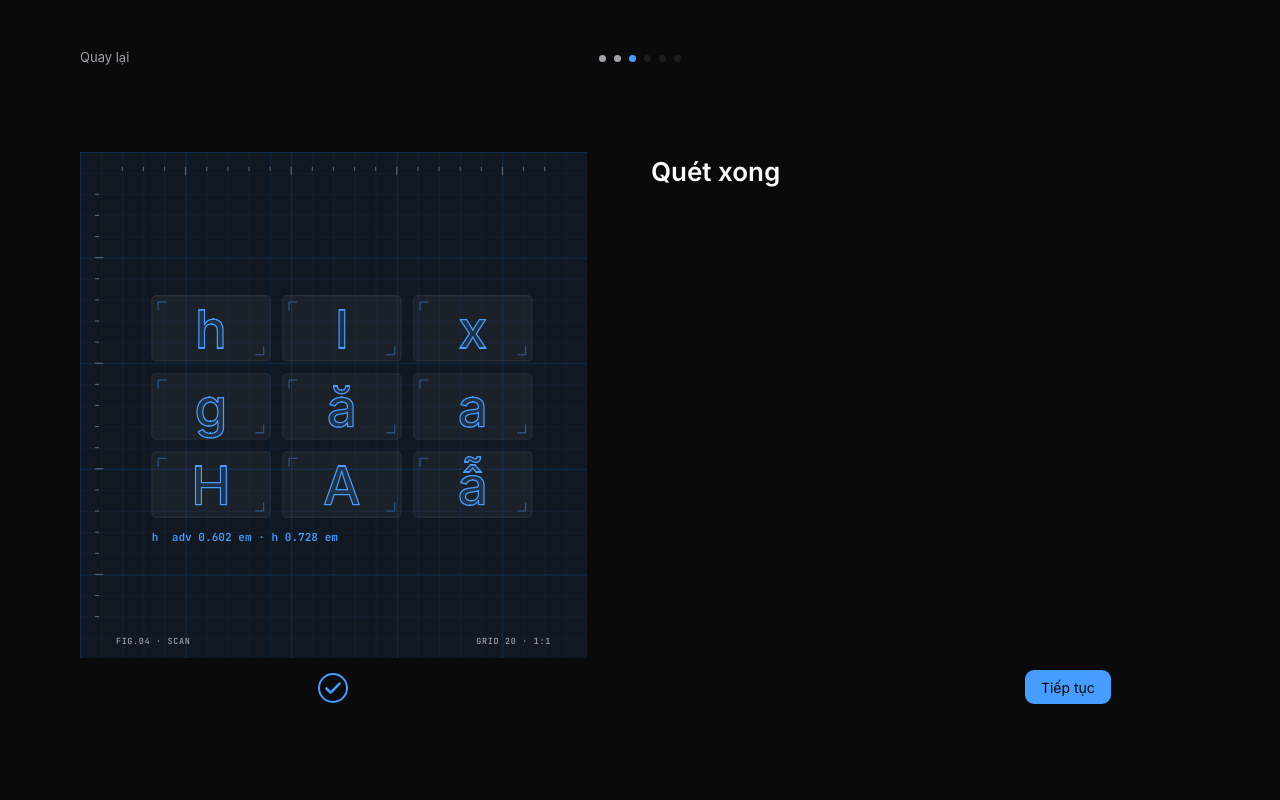
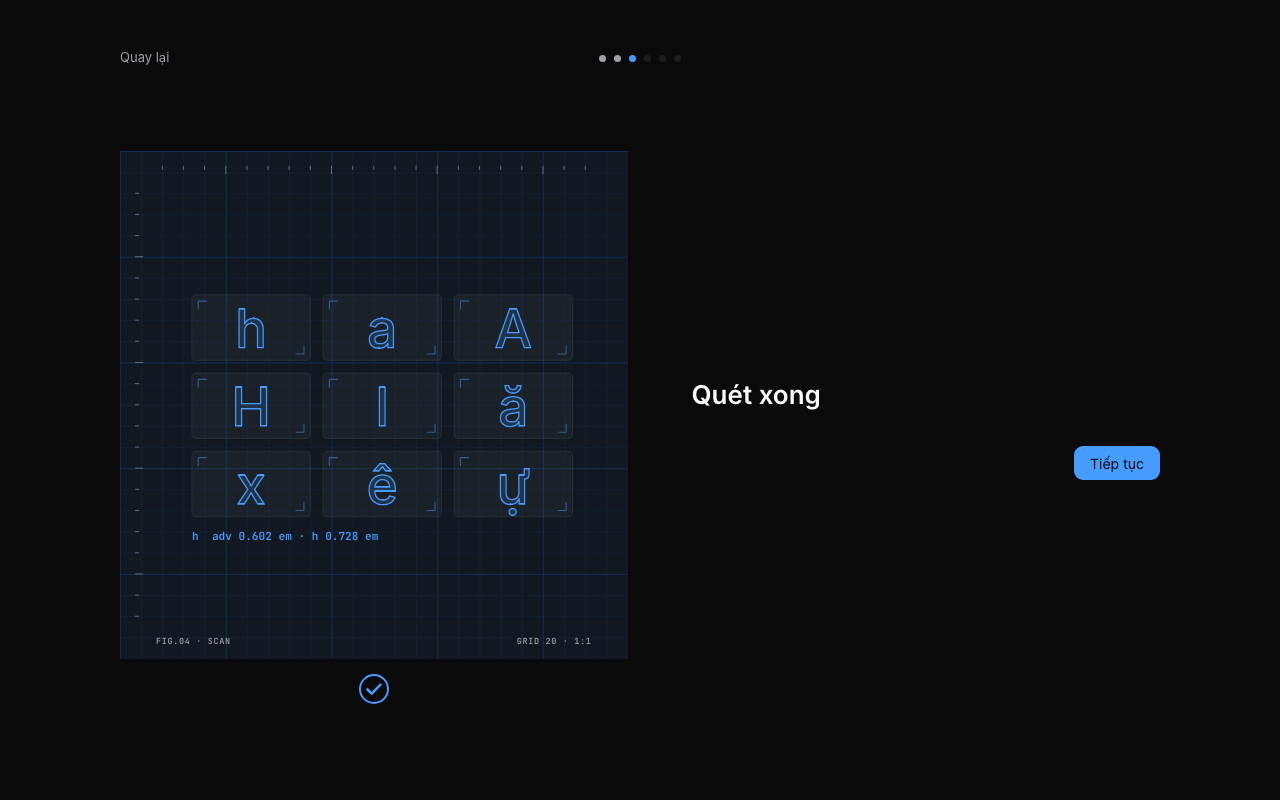
style(onboarding): canh giữa cụm hình+chữ theo chiều ngang, nút ngay sau nội dung và khối chữ giữa dọc, bỏ vạch top đè dấu breve; ảnh chụp lại

diff --git a/UX/components/onboarding/onboarding.css b/UX/components/onboarding/onboarding.css
@@ -1,5 +1,6 @@
 .fa-onb { position: relative; height: 100%; display: flex; flex-direction: column; background: var(--sheet); color: var(--fg); overflow-y: auto; }
-.fa-onb-top { display: grid; grid-template-columns: 1fr auto 1fr; grid-auto-rows: 28px; align-items: center; width: min(1120px, calc(100% - 48px)); margin: 0 auto; padding: 44px 0 0; }
+.fa-onb { --onb-w: min(1040px, calc(100% - 48px)); }
+.fa-onb-top { display: grid; grid-template-columns: 1fr auto 1fr; grid-auto-rows: 28px; align-items: center; width: var(--onb-w); margin: 0 auto; padding: 44px 0 0; }
 .fa-onb-back { justify-self: start; color: var(--muted); font-size: 13px; }
 .fa-onb-back:hover { color: var(--fg); }
 .fa-onb-dots { display: flex; gap: 8px; align-items: center; height: 14px; }
@@ -7,12 +8,11 @@
 .fa-onb-dots i[data-on="true"] { background: var(--muted); }
 .fa-onb-dots i[data-now="true"] { background: var(--accent-ink); }
 @media (prefers-reduced-motion: reduce) { .fa-onb-dots i { transition: none; } }
-.fa-onb-body { flex: 1; width: min(1120px, calc(100% - 48px)); margin: 0 auto; padding: clamp(12px, 3vh, 32px) 0 clamp(24px, 5vh, 56px); display: grid; grid-template-columns: minmax(0, 48fr) minmax(0, 52fr); column-gap: clamp(32px, 5vw, 72px); align-content: center; align-items: stretch; }
+.fa-onb-body { flex: 1; width: var(--onb-w); margin: 0 auto; padding: clamp(12px, 3vh, 32px) 0 clamp(24px, 5vh, 56px); display: grid; grid-template-columns: minmax(0, 52fr) minmax(0, 48fr); column-gap: clamp(32px, 5vw, 72px); align-content: center; align-items: center; }
 .fa-stage { margin: 0; min-width: 0; width: min(100%, 520px, calc(100vh - 230px)); align-self: center; justify-self: start; }
 .fa-stage-slot { min-width: 0; }
-.fa-onb-pane { display: flex; flex-direction: column; gap: 14px; min-width: 0; max-width: 460px; justify-self: start; width: 100%; justify-content: center; }
-.fa-onb-pane > .fa-onb-actions { margin-top: auto; }
-@media (max-width: 880px) { .fa-onb-body { grid-template-columns: minmax(0, 1fr); row-gap: 24px; align-content: start; } .fa-stage { width: min(100%, 360px, calc(100vh - 360px)); min-width: 220px; } .fa-onb-pane { max-width: none; } }
+.fa-onb-pane { display: flex; flex-direction: column; gap: 14px; min-width: 0; justify-self: stretch; }
+@media (max-width: 880px) { .fa-onb-body { grid-template-columns: minmax(0, 1fr); row-gap: 24px; align-content: start; } .fa-stage { width: min(100%, 360px, calc(100vh - 360px)); min-width: 220px; }  }
 .fa-onb-body h1 { margin: 0; font-size: 26px; font-weight: 600; }
 .fa-onb-body p { margin: 0; font-size: 14px; line-height: 1.6; color: var(--muted); }
 .fa-onb-body p[role="alert"] { color: var(--warn); }
@@ -42,7 +42,7 @@
 .fa-onb-suggest { display: flex; gap: 8px; flex-wrap: wrap; }
 .fa-onb-suggest button { height: 30px; padding: 0 12px; border-radius: 8px; background: var(--surface-2); font-size: 13px; }
 .fa-onb-preview { border: 1px solid var(--border); border-radius: var(--radius-md); overflow: hidden; background: var(--sheet); }
-.fa-onb-actions { display: flex; justify-content: flex-end; flex-wrap: wrap; gap: 8px; margin-top: 8px; }
+.fa-onb-actions { display: flex; justify-content: flex-end; flex-wrap: wrap; gap: 8px; margin-top: 18px; }
 .fa-onb-actions button { height: 34px; padding: 0 16px; border-radius: 9px; font-size: 14px; background: var(--surface-2); }
 .fa-onb-actions button.primary { background: var(--accent-ink); color: var(--sheet); }
 .fa-onb-actions button:disabled { opacity: .45; }

diff --git a/UX/components/onboarding/Illustrations.tsx b/UX/components/onboarding/Illustrations.tsx
@@ -21,7 +21,6 @@ function Welcome(): React.JSX.Element {
       <Guide y={cap} name="cap" at={200} />
       <Guide y={xh} name="x-height" at={320} />
       <Guide y={base} name="baseline" at={440} tone="base" />
-      <Guide y={top} name="top" at={560} x1={apex - 40} x2={apex + 40} />
       <Dimension x={150} y1={cap} y2={base} at={1000} />
       <Dimension x={124} y1={xh} y2={base} at={1100} />
       <GlyphArt ch="Ặ" x={x} y={base} size={size} at={700} fillAt={1700} />

diff --git a/docs/design/onboarding-lab/README.md b/docs/design/onboarding-lab/README.md
@@ -17,3 +17,4 @@ Ngôn ngữ hình: bản vẽ kỹ thuật (blueprint) — lưới đo 20 px, đ
 - Trước màn kết: bảng "Phím tắt & tính năng chính" (`UX/components/help`) — lưới 9 thẻ lấy từ danh sách phím thật (`shortcuts.ts`, mỗi mục ghi nơi đăng ký phím); Esc / bấm nền / "Bắt đầu" đều vào thư viện. Mở lại bất kỳ lúc nào bằng phím `?` (trừ khi đang gõ chữ, có hộp thoại/menu hoặc đang trong hướng dẫn).
 - Chụp: `capture.sh` có thêm `-tips` (hash dev `ob=end&tips=1`).
 - Cập nhật sau góp ý chủ app: BỎ khối chú giải dài dưới hình ở mọi bước. Trên hình chỉ còn nhãn ngắn cạnh vạch (tên thuật ngữ + số đo, vd "cap height 0.728 em"); rê chuột/focus vào nhãn mới hiện TermTip. Bố cục cân lại: lưới 48/52, hình vuông ≤ 520 px (≈45% bề ngang) canh giữa theo chiều dọc, lề trái hình = lề trái nút "Quay lại" (cùng cột 1120 px), khối chữ cùng lề cột phải, nút nằm đúng đường chân của hình; cửa sổ hẹp (≤ 880 px) xếp dọc. Ảnh kiểm: 1280×800, 1440×900 (`*-wide-o1`), 720×900 (`*-narrow-o1`).
+- Chỉnh thẩm mỹ lần 2: cả cụm (hình + chữ) canh giữa ngang (lề ngoài hai bên bằng nhau, nút "Quay lại" theo lề cụm: biến `--onb-w`); nút đứng ngay sau nội dung (cách ~32 px) và cả khối chữ canh giữa dọc so với hình; bỏ vạch "top" đè lên đỉnh dấu breve của Ặ (dấu là bát mở nên hai đầu cụt là đúng hình glyph; vạch cũ làm nó trông bị cắt).
